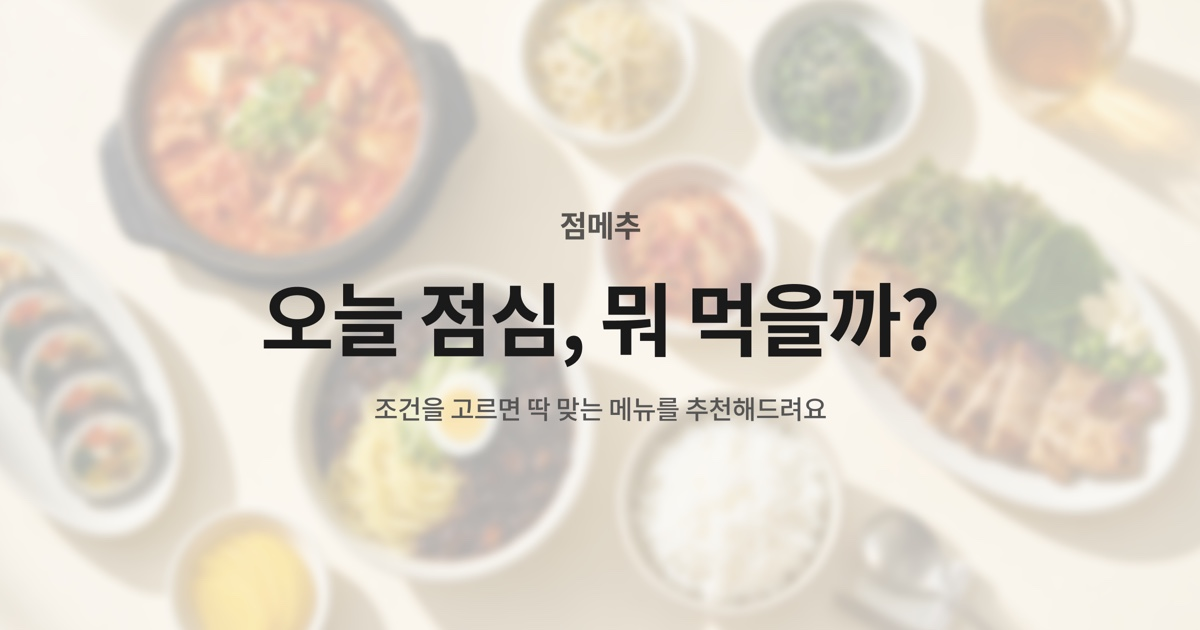
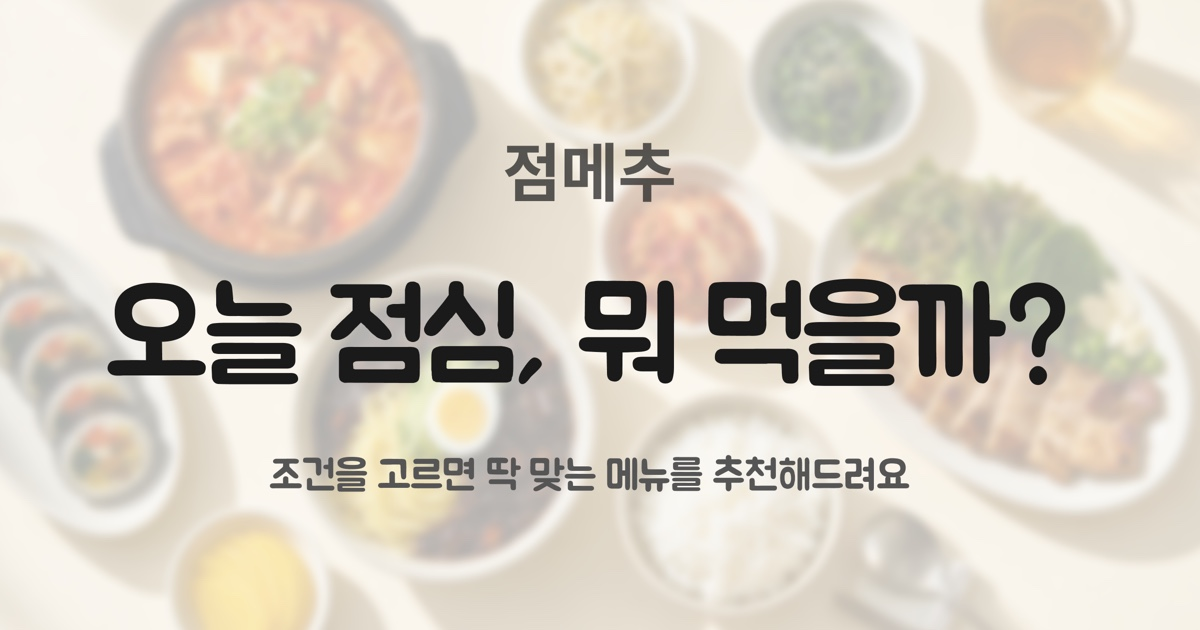
chore: OG 이미지를 새 Figma 버전으로 교체한다
카피를 더 크게 잡은 버전이다. 카드가 피드에서 작게 뜨는 걸 감안하면 헤드라인이
이 정도는 되어야 읽힌다.

?v 를 2 로 올린다. 파일 이름이 같아서, 올리지 않으면 카카오·슬랙이 URL 단위로
캐시해 둔 옛 이미지를 한동안 계속 내보낸다.

Changed region(s): [[0.0925, 0.4222, 0.8942, 0.6937], [0.2158, 0.7238, 0.7708, 0.7841], [0.4008, 0.2111, 0.555, 0.3921]]

diff --git a/index.html b/index.html
@@ -21,7 +21,7 @@
     <meta property="og:description" content="인원수·예산·카테고리를 고르면 딱 맞는 점심 메뉴를 추천해드려요." />
     <!-- ?v 는 캐시 무력화용이다. 카카오·슬랙은 URL 단위로 스크랩 결과를 캐시하므로,
          이미지를 바꿀 때 이 숫자를 올리지 않으면 한동안 옛 이미지가 계속 나간다. -->
-    <meta property="og:image" content="https://jeommechu.co.kr/og.jpg?v=1" />
+    <meta property="og:image" content="https://jeommechu.co.kr/og.jpg?v=2" />
     <meta property="og:image:width" content="1200" />
     <meta property="og:image:height" content="630" />
     <meta property="og:image:alt" content="상 위에 차려진 김치찌개, 김밥, 짜장면, 삼겹살" />
@@ -30,7 +30,7 @@
     <meta name="twitter:card" content="summary_large_image" />
     <meta name="twitter:title" content="점메추 — 오늘 점심, 뭐 먹을까?" />
     <meta name="twitter:description" content="인원수·예산·카테고리를 고르면 딱 맞는 점심 메뉴를 추천해드려요." />
-    <meta name="twitter:image" content="https://jeommechu.co.kr/og.jpg?v=1" />
+    <meta name="twitter:image" content="https://jeommechu.co.kr/og.jpg?v=2" />
   </head>
   <body>
     <div id="root"></div>
